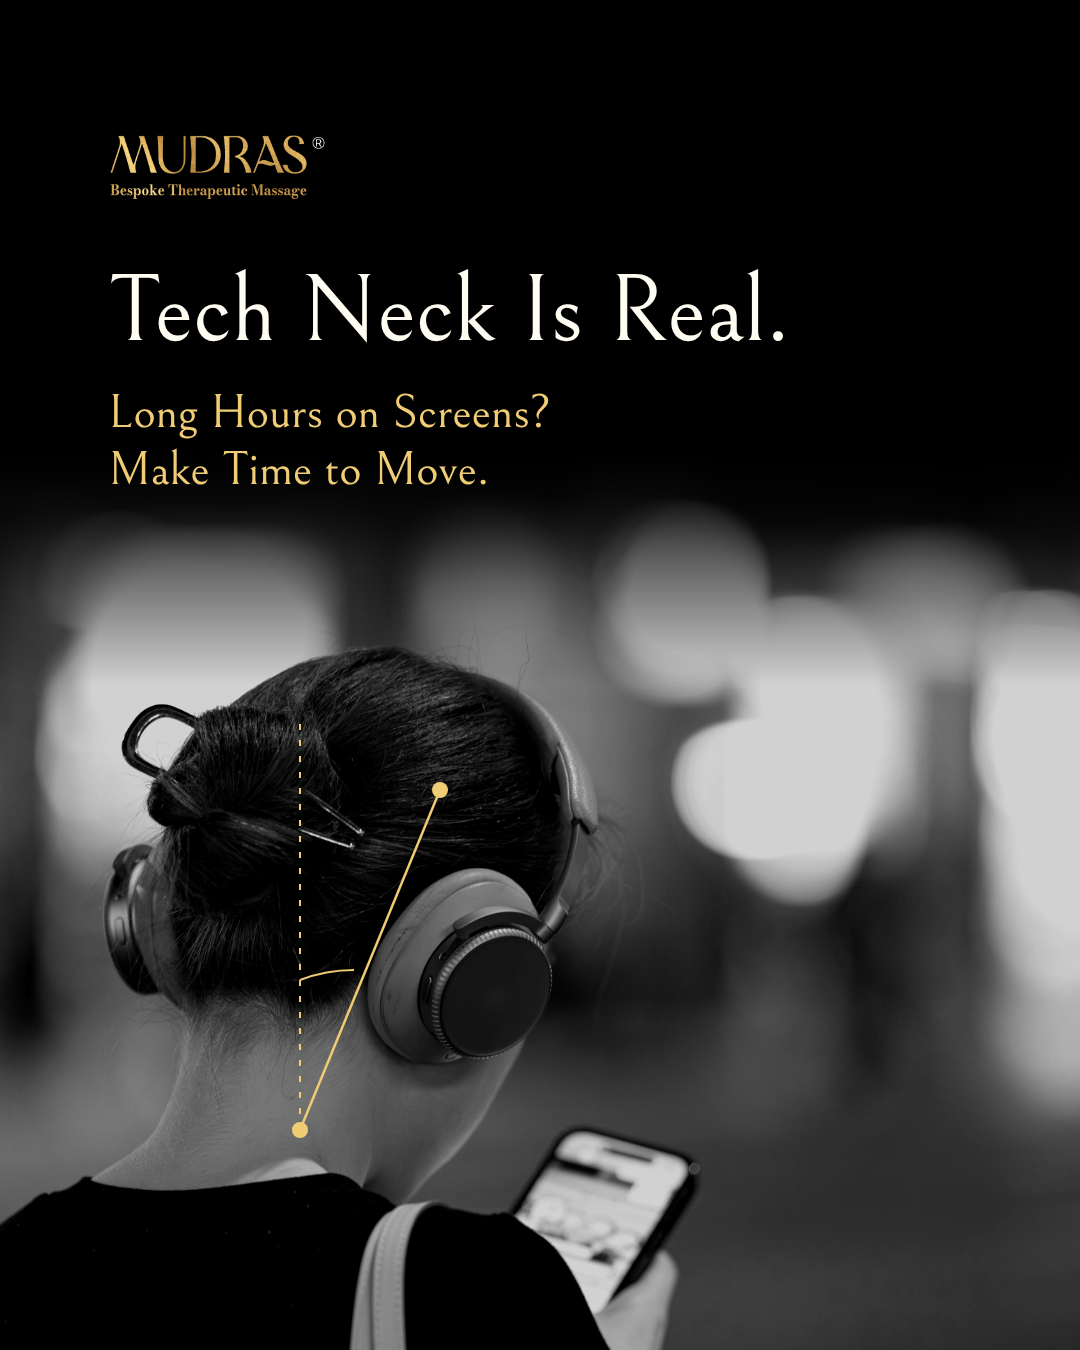
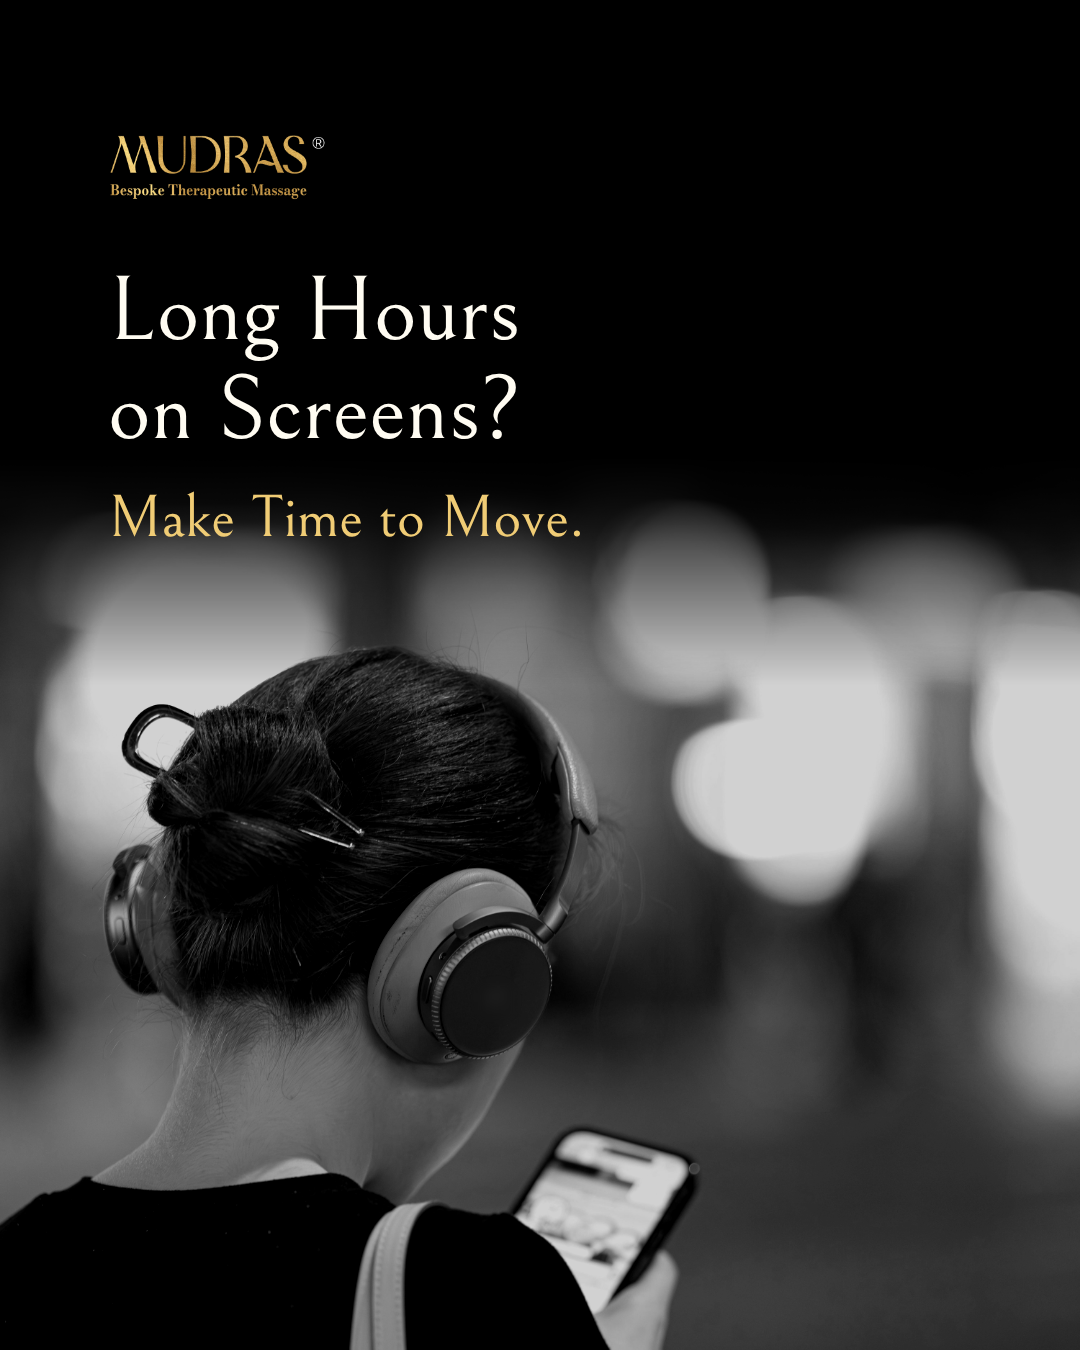
Mudras: cross-check fixes (remove tools, emojis and numbering; tech neck headline; LinkedIn runners wording)
Claude-Session: https://claude.ai/code/session_01WnXcuRrGu4zGnnykNFmZUS

diff --git a/deliverables/mudras/source/design/v2/r2-myth.html b/deliverables/mudras/source/design/v2/r2-myth.html
@@ -42,7 +42,6 @@ body.notext .t{visibility:hidden}
   <div class="photo" style="background-image:url(../../img/my_stretch.jpg);background-position:50% 0%"></div>
   <div class="shade" style="background:linear-gradient(180deg,rgba(0,0,0,0) 0%,rgba(0,0,0,0) 36%,rgba(0,0,0,.66) 58%,rgba(0,0,0,.86) 100%)"></div>
   <div class="copy">
-    <div class="num t" style="font-size:24px">02 / 05</div>
     <div class="rule"></div>
     <div class="serif t" style="font-size:96px"><span class="g">FACT:</span> It doesn&rsquo;t.</div>
     <div class="serif t" style="font-size:54px;line-height:1.2;margin-top:22px">Lactic acid clears from your body<br>on its own, usually within<br>hours of a run.</div>
@@ -54,7 +53,6 @@ body.notext .t{visibility:hidden}
   <div class="photo" style="background-image:url(../../img/my_stairs.jpg);background-position:22% 40%"></div>
   <div class="shade"></div>
   <div class="copy">
-    <div class="num t" style="font-size:24px">03 / 05</div>
     <div class="rule"></div>
     <div class="serif t" style="font-size:82px">So why are you <span class="g">SO</span> sore<br>2 days later?</div>
     <div class="serif t" style="font-size:52px;line-height:1.2;margin-top:22px">It&rsquo;s usually DOMS: Delayed Onset<br>Muscle Soreness</div>
@@ -66,7 +64,6 @@ body.notext .t{visibility:hidden}
   <div class="photo" style="background-image:url(../../img/my_leg_massage.jpg);background-position:62% 40%"></div>
   <div class="shade"></div>
   <div class="copy">
-    <div class="num t" style="font-size:24px">04 / 05</div>
     <div class="rule"></div>
     <div class="serif t" style="font-size:76px">What massage <span class="g">CAN</span> do</div>
     <div class="serif t" style="font-size:50px;line-height:1.2;margin-top:20px">May help ease that sore, tight<br>feeling as part of your recovery</div>
@@ -76,7 +73,7 @@ body.notext .t{visibility:hidden}
 
 <!-- slide 5 · CTA -->
 <div class="ab p45" id="myth_s5">
-  <div class="photo" style="background-image:url(../../img/my_studio.jpg);background-position:50% 30%"></div>
+  <div class="photo" style="background-image:url(../../img/li_shoulder_hands.jpg);background-position:50% 35%;filter:grayscale(1) contrast(1.08) brightness(.62)"></div>
   <div class="shade"></div>
   <div class="copy">
     <div class="logo t" style="width:300px"><img src="../../site/orig_Group_1487669750.png"></div>

diff --git a/deliverables/mudras/source/design/v2/li-runners-proud.html b/deliverables/mudras/source/design/v2/li-runners-proud.html
@@ -1,0 +1,34 @@
+<!doctype html>
+<html><head><meta charset="utf-8">
+<link href="https://fonts.googleapis.com/css2?family=Bellefair&family=Raleway:wght@500&display=block" rel="stylesheet">
+<style>
+/* Mudras brand tokens, taken from mudras.com theme CSS; layout follows the brand's own post
+   "Prepare The Body. Quiet The Mind." (logo top-left, thin gold rule, centred serif copy at the bottom) */
+:root{
+  --gold:#F0CC75;        /* accent  hsl(42.44 80.39% 70%) */
+  --white:#FFFCF2;       /* white   hsl(46.15 100% 97.45%) */
+  --serif:'Bellefair', serif;     /* stand-in for orpheus-pro (Adobe Fonts) */
+}
+*{box-sizing:border-box;margin:0;padding:0}
+body{background:#888;display:flex;flex-direction:column;gap:40px;padding:40px;align-items:flex-start}
+body.notext .t{visibility:hidden}
+.ab{position:relative;overflow:hidden;background:#000;color:var(--white)}
+.p45{width:1080px;height:1350px}
+.photo{position:absolute;inset:0;background-repeat:no-repeat;background-size:cover;filter:grayscale(1) contrast(1.1)}
+.shade{position:absolute;inset:0}
+.serif{font-family:var(--serif);font-weight:400;line-height:1.12}
+.rule{height:2px;background:var(--gold)}
+.logo img{width:100%;display:block}
+</style></head><body>
+
+<div class="ab p45" id="li_runners_proud">
+  <div class="photo" style="background-image:url(../../img/li_nyc_legs.jpg);background-position:50% 0%"></div>
+  <div class="shade" style="background:linear-gradient(180deg,rgba(0,0,0,.25) 0%,rgba(0,0,0,0) 20%,rgba(0,0,0,0) 42%,rgba(0,0,0,.62) 58%,rgba(0,0,0,.8) 70%,rgba(0,0,0,.88) 100%)"></div>
+      <div style="position:absolute;left:108px;right:108px;bottom:150px;text-align:center">
+    <div class="logo t" style="width:300px;margin:0 auto 40px"><img src="../../site/orig_Group_1487669750.png"></div>
+    <div class="rule" style="margin-bottom:44px"></div>
+    <div class="serif t" style="font-size:80px">Yesterday, Runners Made<br>New York Proud.</div>
+  </div>
+</div>
+
+</body></html>

diff --git a/deliverables/mudras/source/design/v2/r2-tech-neck.html b/deliverables/mudras/source/design/v2/r2-tech-neck.html
@@ -26,16 +26,10 @@ svg.post{position:absolute;inset:0}
 <div class="ab p45" id="fb_tech_neck">
   <div class="photo" style="top:400px;background-image:url(../../img/technek_bun_c.jpg);background-size:1080px auto;background-position:50% 4%;-webkit-mask-image:linear-gradient(180deg,transparent 0%,transparent 6%,#000 30%);mask-image:linear-gradient(180deg,transparent 0%,transparent 6%,#000 30%)"></div>
   <div style="position:absolute;left:470px;top:975px;width:52px;height:52px;border-radius:50%;backdrop-filter:blur(7px);-webkit-backdrop-filter:blur(7px)"></div>
-  <svg class="post" width="1080" height="1350" viewBox="0 0 1080 1350">
-    <line x1="300" y1="1130" x2="300" y2="720" stroke="#F0CC75" stroke-width="2" stroke-dasharray="6 10"/>
-    <line x1="300" y1="1130" x2="440" y2="790" stroke="#F0CC75" stroke-width="2.5"/>
-    <path d="M300 980 A150 150 0 0 1 354 970" fill="none" stroke="#F0CC75" stroke-width="2"/>
-    <circle cx="300" cy="1130" r="8" fill="#F0CC75"/><circle cx="440" cy="790" r="8" fill="#F0CC75"/>
-  </svg>
   <div class="logo t" style="position:absolute;left:108px;top:135px;width:220px"><img src="../../site/orig_Group_1487669750.png"></div>
   <div style="position:absolute;left:108px;right:108px;top:262px">
-    <div class="serif t" style="font-size:96px">Tech Neck Is Real.</div>
-    <div class="serif t" style="font-size:48px;line-height:1.2;color:var(--gold);margin-top:20px">Long Hours on Screens?<br>Make Time to Move.</div>
+    <div class="serif t" style="font-size:92px;line-height:1.08">Long Hours<br>on Screens?</div>
+    <div class="serif t" style="font-size:60px;line-height:1.2;color:var(--gold);margin-top:22px">Make Time to Move.</div>
   </div>
 </div>
 

diff --git a/deliverables/mudras/source/design/v2/r2-pin-race-week.html b/deliverables/mudras/source/design/v2/r2-pin-race-week.html
@@ -45,11 +45,11 @@ body.notext .t{visibility:hidden}
   <div style="position:absolute;left:100px;right:100px;top:790px">
         <div class="serif t" style="font-size:64px;margin-top:18px">NYC Marathon<br>Race Week Checklist</div>
     <ul class="nlist" style="margin-top:22px">
-      <li><span class="n t">01</span><span class="x t">Taper your miles</span></li>
-      <li><span class="n t">02</span><span class="x t">Protect your sleep</span></li>
-      <li><span class="n t">03</span><span class="x t">Familiar food &amp; tested gear</span></li>
-      <li><span class="n t">04</span><span class="x t">Plan your route to the start</span></li>
-      <li><span class="n t">05</span><span class="x t">Plan your post-race recovery</span></li>
+      <li><span class="n t">&#10003;</span><span class="x t">Taper your miles</span></li>
+      <li><span class="n t">&#10003;</span><span class="x t">Protect your sleep</span></li>
+      <li><span class="n t">&#10003;</span><span class="x t">Familiar food &amp; tested gear</span></li>
+      <li><span class="n t">&#10003;</span><span class="x t">Plan your route to the start</span></li>
+      <li><span class="n t">&#10003;</span><span class="x t">Plan your post-race recovery</span></li>
     </ul>
   </div>
   <div class="logo t" style="position:absolute;right:100px;bottom:150px;width:190px"><img src="../../site/orig_Group_1487669750.png"></div>

diff --git a/deliverables/mudras/source/design/v2/r2-countdown.html b/deliverables/mudras/source/design/v2/r2-countdown.html
@@ -72,7 +72,7 @@ body.notext .t{visibility:hidden}
   <div class="copy" style="top:950px">
     <div class="rule" style="width:120px;margin-bottom:34px"></div>
     <div class="serif t" style="font-size:96px">Your goal time:</div>
-    <div class="serif t" style="font-size:70px;color:var(--gold);margin-top:18px">drop it below 👇</div>
+    <div class="serif t" style="font-size:70px;color:var(--gold);margin-top:18px">drop it below</div>
   </div>
   <div class="dots"><i></i><i></i><i></i><i class="on"></i><i></i></div>
 </div>
@@ -83,7 +83,7 @@ body.notext .t{visibility:hidden}
   <div class="logo c t" style="top:140px;width:260px"><img src="../../site/orig_Group_1487669750.png"></div>
   <div class="copy">
     <div class="rule" style="width:120px;margin-bottom:40px"></div>
-    <div class="serif t" style="font-size:76px">We&rsquo;ll be cheering for every one of you on <span style="color:var(--gold)">1 Nov</span> 💛</div>
+    <div class="serif t" style="font-size:76px">We&rsquo;ll be cheering for every one of you on <span style="color:var(--gold)">1 Nov</span></div>
   </div>
   <div class="dots"><i></i><i></i><i></i><i></i><i class="on"></i></div>
 </div>

diff --git a/deliverables/mudras/source/design/v2/r2-bodyreset-carousel.html b/deliverables/mudras/source/design/v2/r2-bodyreset-carousel.html
@@ -49,7 +49,7 @@ body.notext .t{visibility:hidden}
   
 </div>
 <div class="ab p45" id="br2_s3">
-  <div class="photo" style="background-image:url(../../img/br_s3_tool.jpg);background-position:50% 70%"></div>
+  <div class="photo" style="background-image:url(../../img/br_s3_lowback.jpg);background-position:50% 55%;filter:grayscale(1) contrast(1.08) brightness(.7)"></div>
   <div class="shade"></div>
   <div class="copy">
     <div class="caps t" style="font-size:22px;margin-bottom:26px">Step 2</div><div class="serif t" style="font-size:88px">Work With Intention</div>

diff --git a/deliverables/mudras/client-revisions-v2/CROSS-CHECK.md b/deliverables/mudras/client-revisions-v2/CROSS-CHECK.md
@@ -1,0 +1,20 @@
+# Client revision cross-check (Oct 26)
+
+Every client comment in the sheet was checked against the final image and caption. Fixes made in this pass:
+
+| Row | What was wrong | Fix |
+|---|---|---|
+| IG/FB 4 (countdown) | Slides 4 and 5 still had emojis (👇, 💛) on the image | Emojis removed; slide 1 says 6 days to go |
+| IG/FB 10 (lactic acid myth) | Slides 2 to 4 had "02 / 05" numbering; slide 5 photo showed a massage tool | Numbering removed; slide 5 now uses a hands-only photo |
+| IG/FB 15 (BodyReset carousel) | Slide 3 photo showed a soft-tissue tool | Replaced with a hands-only photo |
+| IG/FB 17 (tech neck) | Image still led with "Tech Neck Is Real." and the dotted posture lines | Headline is now "Long Hours on Screens? Make Time to Move."; posture lines removed |
+| Pinterest 8 (race week) | Checklist used 01 to 05 numbering | Numbers replaced with gold check marks |
+| LinkedIn 8 (runners) | Image said "Our Runners", the same unverified claim the client flagged in the caption | Now "Yesterday, Runners Made New York Proud." |
+
+## New photos used
+| Slide | Image | Link |
+|---|---|---|
+| IG/FB 10, slide 5 | Hands massaging a shoulder on a massage table (no tool, no face) | https://unsplash.com/photos/i0-A2noIOcs |
+| IG/FB 15, slide 3 | A hand pressing into the lower back (no tool, no face) | https://unsplash.com/photos/RcHB2c_74Tk |
+
+Both are free under the Unsplash License (commercial use allowed).
